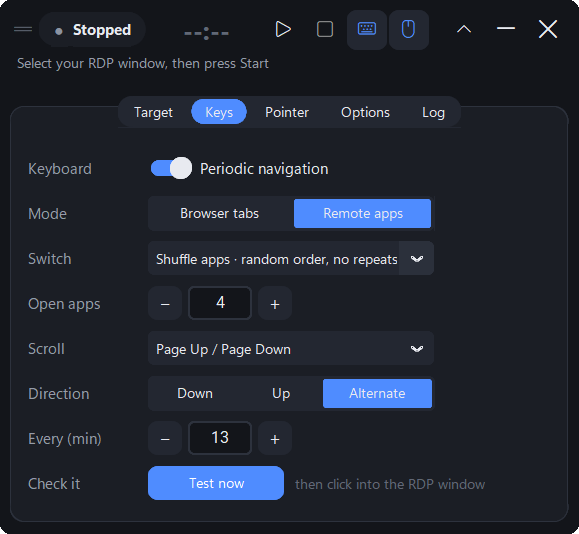
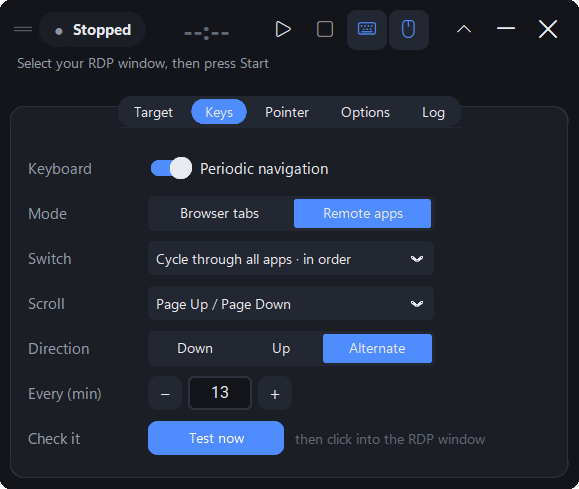
Cycle through all remote apps by default (1.0.4)
Live test on the user's full-screen session with screenshots: one
Alt+Shift+Tab per switch showed a different app each time (Antigravity ->
VS Code -> VS Code -> File Explorer). In the Alt+Tab list it selects the app
used longest ago, so repeated switches visit every open app in turn without
needing an app count.

- New default Remote apps switch "Cycle through all apps" (Alt+Shift+Tab when
  the RDP client forwards Windows keys, Alt+Page Down otherwise).
- Options: Cycle through all apps, Shuffle apps, Back and forth, Off.
- Settings schema 2: the old default (Shuffle apps) and old "Previous app"
  migrate to Cycle through all apps.
- Docs, screenshots and release notes for 1.0.4 (includes unpublished 1.0.3).

diff --git a/src/keyboard_navigation.py b/src/keyboard_navigation.py
@@ -53,6 +53,7 @@ REMOTE_APP = "remote_app"
 MODES = {BROWSER: "Browser tabs", REMOTE_APP: "Remote apps"}
 
 SHUFFLE_APPS = "shuffle_apps"
+CYCLE_APPS = "cycle_apps"
 
 SWITCH_SHORTCUTS: dict[str, Shortcut] = {
     s.id: s
@@ -66,19 +67,22 @@ SWITCH_SHORTCUTS: dict[str, Shortcut] = {
         # Remote-app switching: the keys below are the windowed-mode defaults.  The engine
         # picks Alt+Tab / Alt+Shift+Tab instead when the RDP client forwards Windows key
         # combinations to the remote session (see rdp_settings.py).
+        # Cycle: one Alt+Shift+Tab brings forward the app used longest ago, so repeating it visits
+        # every open app in turn (verified live: 4 switches showed 4 different apps).
+        Shortcut(CYCLE_APPS, "Cycle through all apps · in order", ("alt", "pagedown")),
         Shortcut(SHUFFLE_APPS, "Shuffle apps · random order, no repeats", ("alt", "pageup")),
-        Shortcut("alt_pageup", "Next app", ("alt", "pageup")),
-        Shortcut("alt_pagedown", "Previous app", ("alt", "pagedown")),
+        Shortcut("alt_pageup", "Back and forth · last two apps", ("alt", "pageup")),
+        Shortcut("alt_pagedown", "Cycle through all apps · in order (legacy)", ("alt", "pagedown")),
         Shortcut("off", "Off · no switching", ()),
     )
 }
 
-REMOTE_APP_SWITCHES = frozenset({SHUFFLE_APPS, "alt_pageup", "alt_pagedown"})
+REMOTE_APP_SWITCHES = frozenset({CYCLE_APPS, SHUFFLE_APPS, "alt_pageup", "alt_pagedown"})
 
 
 def remote_app_keys(switch_id: str, windows_keys_go_remote: bool) -> tuple[str, ...]:
     """Keys that switch apps INSIDE the remote session for the RDP client's current keyboard mode."""
-    previous = switch_id == "alt_pagedown"
+    previous = switch_id in (CYCLE_APPS, "alt_pagedown")
     if windows_keys_go_remote:  # client forwards Alt+Tab itself (e.g. full screen, default settings)
         return ("alt", "shift", "tab") if previous else ("alt", "tab")
     return ("alt", "pagedown") if previous else ("alt", "pageup")  # client's own Alt+Tab stand-in
@@ -86,9 +90,9 @@ def remote_app_keys(switch_id: str, windows_keys_go_remote: bool) -> tuple[str, 
 
 MODE_SWITCH_OPTIONS = {
     BROWSER: ("ctrl_tab", "ctrl_shift_tab", "ctrl_pagedown", "ctrl_pageup", "off"),
-    REMOTE_APP: (SHUFFLE_APPS, "alt_pageup", "alt_pagedown", "off"),
+    REMOTE_APP: (CYCLE_APPS, SHUFFLE_APPS, "alt_pageup", "off"),
 }
-MODE_DEFAULT_SWITCH = {BROWSER: "ctrl_tab", REMOTE_APP: SHUFFLE_APPS}
+MODE_DEFAULT_SWITCH = {BROWSER: "ctrl_tab", REMOTE_APP: CYCLE_APPS}
 
 SCROLL_KEYS = {  # id -> (label, key for "down", key for "up")
     "page": ("Page Up / Page Down", "pagedown", "pageup"),

diff --git a/tests/test_settings.py b/tests/test_settings.py
@@ -3,14 +3,14 @@ import os
 
 import pytest
 
-from keyboard_navigation import BROWSER, REMOTE_APP, SHUFFLE_APPS
+from keyboard_navigation import BROWSER, CYCLE_APPS, REMOTE_APP, SHUFFLE_APPS
 from settings import DEFAULTS, SettingsStore, validate
 
 
 def test_defaults_match_specification():
     assert DEFAULTS.interval_minutes == 13.0
     assert DEFAULTS.mode == REMOTE_APP
-    assert DEFAULTS.switch_shortcut == SHUFFLE_APPS
+    assert DEFAULTS.switch_shortcut == CYCLE_APPS
     assert DEFAULTS.keyboard_enabled is True
     assert DEFAULTS.resume_policy == "auto"
 
@@ -41,7 +41,7 @@ def test_switch_shortcut_must_belong_to_mode():
     s = validate({"mode": BROWSER, "switch_shortcut": SHUFFLE_APPS})
     assert s.switch_shortcut == "ctrl_tab"
     s = validate({"mode": REMOTE_APP, "switch_shortcut": "ctrl_tab"})
-    assert s.switch_shortcut == SHUFFLE_APPS
+    assert s.switch_shortcut == CYCLE_APPS
 
 
 def test_mode_change_resets_shortcut(tmp_path):
@@ -49,7 +49,7 @@ def test_mode_change_resets_shortcut(tmp_path):
     store.load()
     assert store.update(mode=BROWSER).switch_shortcut == "ctrl_tab"
     assert store.update(switch_shortcut="ctrl_shift_tab").switch_shortcut == "ctrl_shift_tab"
-    assert store.update(mode=REMOTE_APP).switch_shortcut == SHUFFLE_APPS
+    assert store.update(mode=REMOTE_APP).switch_shortcut == CYCLE_APPS
 
 
 def test_unknown_setting_rejected(tmp_path):
@@ -97,3 +97,11 @@ def test_minimize_target_default_and_validation():
     assert DEFAULTS.minimize_to == "taskbar"
     assert validate({"minimize_to": "tray"}).minimize_to == "tray"
     assert validate({"minimize_to": "desktop"}).minimize_to == "taskbar"
+
+
+def test_old_default_shuffle_migrates_to_cycle():
+    assert validate({"schema_version": 1, "switch_shortcut": "shuffle_apps"}).switch_shortcut == CYCLE_APPS
+    assert validate({"schema_version": 1, "switch_shortcut": "alt_pagedown"}).switch_shortcut == CYCLE_APPS
+    assert validate({"schema_version": 1, "switch_shortcut": "alt_pageup"}).switch_shortcut == "alt_pageup"
+    # once saved with the new schema, a deliberate choice of Shuffle is kept
+    assert validate({"schema_version": 2, "switch_shortcut": "shuffle_apps"}).switch_shortcut == SHUFFLE_APPS

diff --git a/src/scheduler.py b/src/scheduler.py
@@ -27,7 +27,8 @@ from enum import Enum
 
 from input_safety import SafetyGate
 from keyboard_navigation import (
-    PACING, REMOTE_APP_SWITCHES, SHUFFLE_APPS, SWITCH_SHORTCUTS, ActionResult, AppShuffler, KeyboardNavigator,
+    CYCLE_APPS, PACING, REMOTE_APP_SWITCHES, SHUFFLE_APPS, SWITCH_SHORTCUTS, ActionResult, AppShuffler,
+    KeyboardNavigator,
     chord_text, remote_app_keys, scroll_key_for,
 )
 from pointer_controller import ManualMovementMonitor, PointerController
@@ -65,7 +66,7 @@ class PointerState(str, Enum):
 class EngineConfig:
     keyboard_enabled: bool = True
     interval_s: float = 13 * 60
-    switch_shortcut: str = SHUFFLE_APPS
+    switch_shortcut: str = CYCLE_APPS
     app_count: int = 4
     scroll_key: str = "page"
     scroll_direction: str = "alternate"
@@ -620,7 +621,8 @@ class AutomationEngine:
                     if shuffler is not None:
                         shuffler.commit()
                     took = r.message.rsplit(" over ", 1)[-1] if " over " in r.message else ""
-                    order = f"; shuffled order of {cfg.app_count}" if shuffler is not None else ""
+                    order = (f"; shuffled order of {cfg.app_count}" if shuffler is not None else
+                             "; cycling through all open apps" if switch.id in (CYCLE_APPS, "alt_pagedown") else "")
                     r = ActionResult(True, "ok", f"Switched remote app with {chord_text(keys, steps)}"
                                                  f"{' over ' + took if took else ''} ({why}{order})")
                 elif r.code == "focus_changed" and "tab" in keys and "alt" in keys:

diff --git a/tests/test_keyboard_navigation.py b/tests/test_keyboard_navigation.py
@@ -32,6 +32,24 @@ def test_remote_app_keys_follow_rdp_keyboard_mode():
     assert remote_app_keys("alt_pagedown", False) == ("alt", "pagedown")
 
 
+def test_cycle_uses_one_shift_tab_per_switch():
+    from keyboard_navigation import CYCLE_APPS, MODE_DEFAULT_SWITCH, REMOTE_APP, remote_app_keys
+    assert MODE_DEFAULT_SWITCH[REMOTE_APP] == CYCLE_APPS
+    assert remote_app_keys(CYCLE_APPS, True) == ("alt", "shift", "tab")
+    assert remote_app_keys(CYCLE_APPS, False) == ("alt", "pagedown")
+
+
+def test_one_shift_tab_cycles_through_every_app():
+    """Model of the Windows Alt+Tab list: Alt+Shift+Tab once selects the least recently used app."""
+    for n in range(2, 8):
+        mru = list(range(n))
+        seen = [mru[0]]
+        for _ in range(n - 1):
+            mru.insert(0, mru.pop())  # last (least recent) app comes to the front
+            seen.append(mru[0])
+        assert sorted(seen) == list(range(n))  # n switches visit all n apps, none repeated
+
+
 def test_mode_options_reference_existing_shortcuts():
     for options in MODE_SWITCH_OPTIONS.values():
         assert all(o in SWITCH_SHORTCUTS for o in options)

diff --git a/src/settings.py b/src/settings.py
@@ -21,7 +21,7 @@ from keyboard_navigation import (
 
 log = logging.getLogger(__name__)
 
-SCHEMA_VERSION = 1
+SCHEMA_VERSION = 2  # 2: Remote apps default changed from Shuffle apps to Cycle through all apps
 
 INTERVAL_MIN, INTERVAL_MAX = 1.0, 240.0          # minutes
 POINTER_INTERVAL_MIN, POINTER_INTERVAL_MAX = 10, 900  # seconds
@@ -88,7 +88,10 @@ def _opt_int(value):
 def validate(raw: dict) -> Settings:
     d = DEFAULTS
     mode = _choice(raw.get("mode"), d.mode, MODES)
-    switch = _choice(raw.get("switch_shortcut"), MODE_DEFAULT_SWITCH[mode], MODE_SWITCH_OPTIONS[mode])
+    raw_switch = raw.get("switch_shortcut")
+    if raw.get("schema_version", 1) == 1 and raw_switch in ("shuffle_apps", "alt_pagedown"):
+        raw_switch = MODE_DEFAULT_SWITCH[REMOTE_APP]  # old default / old "Previous app" -> cycle
+    switch = _choice(raw_switch, MODE_DEFAULT_SWITCH[mode], MODE_SWITCH_OPTIONS[mode])
     return Settings(
         schema_version=SCHEMA_VERSION,
         interval_minutes=round(_num(raw.get("interval_minutes"), d.interval_minutes, INTERVAL_MIN, INTERVAL_MAX,

diff --git a/tests/test_scheduler.py b/tests/test_scheduler.py
@@ -584,3 +584,20 @@ def test_alt_tab_falls_back_after_focus_moves(env):
     eng.test_now()
     eng.step()
     assert kb.sent[-1] == (("alt", "pageup"), 1)
+
+
+def test_cycle_mode_full_screen_and_windowed(env):
+    from keyboard_navigation import CYCLE_APPS
+    assert _one_test_cycle(env, CYCLE_APPS, fullscreen=True) == [(("alt", "shift", "tab"), 1)]
+    eng = env[0]
+    assert "cycling through all open apps" in eng.snapshot().events[-2].message
+
+
+def test_cycle_mode_windowed_uses_alt_pagedown(env):
+    from keyboard_navigation import CYCLE_APPS
+    assert _one_test_cycle(env, CYCLE_APPS, fullscreen=False) == [(("alt", "pagedown"), 1)]
+
+
+def test_default_engine_switch_is_cycle():
+    from keyboard_navigation import CYCLE_APPS
+    assert EngineConfig().switch_shortcut == CYCLE_APPS

diff --git a/src/app_info.py b/src/app_info.py
@@ -6,7 +6,7 @@ import os
 import sys
 
 APP_NAME = "RDP Nexus"
-APP_VERSION = "1.0.3"
+APP_VERSION = "1.0.4"
 APP_PUBLISHER = "ADevlooper"
 APP_URL = "https://github.com/ADevlooper/RDP-Nexus"
 # Explicit AppUserModelID so the taskbar groups the window under our own icon

diff --git a/README.md b/README.md
@@ -17,8 +17,10 @@ the moment the RDP window isn't the active window, and it never touches your loc
   one-line status. Expand it for settings; minimize it to the taskbar (default) or the system tray.
 - **Start / Pause / Resume / Stop**, with a countdown to the next cycle and clear states:
   **Stopped**, **Running**, **Paused**, **RDP Unavailable** and **Manual pointer control**.
-- **Shuffle apps** (default): visits every app open in the remote session in a random order,
-  re-shuffled each round, and **never selects the same app twice in a row**.
+- **Cycle through all apps** (default): like pressing Alt+Tab to go from VS Code to the browser to
+  Visual Studio and round again. Every switch brings up the app used longest ago, so it visits **every**
+  open app in turn and never shows the same app twice in a row. No app count needed.
+- **Shuffle apps**: visits every app once per round in a random order that changes each round.
 - **Remote apps** and **Browser tabs** modes with an allow-list of shortcuts, plus a configurable
   scroll key and direction (down, up or alternate).
 - **Gentle pointer movement**: small, smooth glides that stay inside the RDP window's client area,
@@ -50,8 +52,8 @@ Requires Windows 10 or 11 (x64). Python is **not** required.
 1. Open your Remote Desktop connection (`mstsc`, or the Microsoft Remote Desktop / Windows App client).
 2. In RDP Nexus click **▾** (settings) → **Target**, then pick the RDP window from the list, or click
    **Pick by clicking it** and click inside the RDP window.
-3. On the **Keys** tab set **Open apps** to the number of apps open *inside the remote session*
-   (the number you would see in its Alt+Tab list).
+3. On the **Keys** tab keep **Switch → Cycle through all apps** (default). Only for *Shuffle apps*:
+   set **Open apps** to the number of apps open inside the remote session.
 4. Check it: on the **Keys** tab press **Test now**, click inside the RDP window and keep still.
    Within a couple of seconds the remote session should switch to another app and scroll. The result
    is shown in the status line and on the **Log** tab.
@@ -71,7 +73,7 @@ Each cycle sends **one** switch action, then (after half a second, if the target
 
 | Mode | Switch options | Notes |
 | --- | --- | --- |
-| **Remote apps** | **Shuffle apps** (default), Next app, Previous app, Off | Keys are chosen automatically before every switch (see *Which keys switch remote apps* below). |
+| **Remote apps** | **Cycle through all apps** (default), Shuffle apps, Back and forth (last two apps), Off | Keys are chosen automatically before every switch (see *Which keys switch remote apps* below). |
 | **Browser tabs** | Ctrl+Tab, Ctrl+Shift+Tab, Ctrl+Page Down, Ctrl+Page Up, Off | Acts on the browser that is active in the remote session. |
 
 Scroll: Page Down/Page Up or Arrow Down/Up (or Off), with direction **Down**, **Up** or **Alternate**
@@ -89,6 +91,12 @@ RDP Nexus reads the setting from the `.rdp` file the client was started with, or
 `Documents\Default.rdp`. It checks whether the window is full screen (no title bar, covers its
 monitor) right before every switch, and the **Target** tab shows the choice and why. If focus ever
 leaves the RDP window right after an Alt+Tab, it suspends and uses Alt+Page Up for that window from then on.
+
+**Cycle through all apps** sends one Alt+Shift+Tab (Alt+Page Down when windowed) per switch. In the
+Alt+Tab list that selects the app used longest ago, so repeated switches walk through every open app
+and come back round, however many apps are open. Verified live on a full-screen session: four
+screenshots showed four different apps. **Back and forth** sends a single Alt+Tab, which alternates
+between the two most recent apps.
 
 **Shuffle apps** models the remote Alt+Tab list, which Windows keeps in most-recently-used order.
 To bring up the app *k* places down that list it holds Alt, taps Tab (or Page Up) *k* times (*k* ≥ 1),
@@ -149,7 +157,7 @@ Uninstalling removes the program, shortcuts, the startup entry and the logs. You
 | --- | --- |
 | Always **RDP Unavailable – not the active window** | Click inside the RDP window after pressing Start. RDP Nexus itself is a local window, so clicking it takes focus away from RDP. |
 | RDP window isn't in the list | Make sure it's connected (not just the "Remote Desktop Connection" dialog) and press ⟳. Only `mstsc.exe`/`msrdc.exe` session windows are supported. |
-| App switching does nothing | Update to 1.0.3 or later: earlier versions only sent Alt+Page Up, which a full-screen session ignores. Use **Keys → Test now** and read the **Log** tab and **Target → Keys**. If the log says *Switched remote app* but nothing changed: check that more than one app is open in the session and that **Open apps** matches, then try **Options → Key timing → Slow**. |
+| App switching does nothing | Update to 1.0.3 or later: earlier versions only sent Alt+Page Up, which a full-screen session ignores. Use **Keys → Test now** and read the **Log** tab and **Target → Keys**. If the log says *Switched remote app* but nothing changed: check that more than one app is open in the session (and, for Shuffle apps, that **Open apps** matches), then try **Options → Key timing → Slow**. Use **Cycle through all apps** if you want every app visited without counting them. |
 | RDP Nexus isn't on the taskbar | Check **Options → Minimize to**. With *System tray*, the — button and launch-at-sign-in hide the panel in the tray. Windows 11 puts new tray icons in the hidden overflow, so click **^** next to the clock (drag the icon onto the taskbar to keep it visible). With *Taskbar* (default since 1.0.2) it always keeps a taskbar button. |
 | "Blocked by Windows" | The RDP client runs as administrator and RDP Nexus doesn't. Windows blocks input from lower-integrity apps (UIPI), so run both at the same level. |
 | Pointer stays on *Arming* | Rest the pointer over the remote desktop (not over the RDP title bar or RDP Nexus) for 3 seconds. |

diff --git a/docs/releases/v1.0.4.md b/docs/releases/v1.0.4.md
@@ -1,0 +1,31 @@
+## RDP Nexus 1.0.4
+
+Includes the 1.0.3 fix, which was not published on its own.
+
+### Fixed
+- **App switching did nothing in a full-screen Remote Desktop session** (1.0.3). Tested live: with
+  Remote Desktop Connection's default keyboard setting, a full-screen session forwards **Alt+Tab** to
+  the remote PC and passes **Alt+Page Up** through unchanged, so the remote PC ignores it. RDP Nexus
+  now picks the keys the client actually forwards before every switch:
+  - **Alt+Tab** / Alt+Shift+Tab when the session is full screen with the default setting, or the
+    setting is *On the remote computer*;
+  - **Alt+Page Up** / Alt+Page Down when it is windowed, or the setting is *On this computer*.
+  The setting is read from the `.rdp` file (or `Documents\Default.rdp`); **Target → Keys** shows the
+  choice. If local focus changes right after an Alt+Tab, automation suspends and that window uses
+  Alt+Page Up from then on.
+
+### New
+- **Cycle through all apps** is the new default switch: VS Code → browser → Visual Studio → … and round
+  again. One Alt+Shift+Tab per switch brings up the app used longest ago, so every open app is visited
+  in turn with no app count to keep up to date. Verified live: four screenshots, four different apps.
+- Switch options in Remote apps mode: *Cycle through all apps*, *Shuffle apps*, *Back and forth* (plain
+  Alt+Tab between the last two apps), *Off*. Settings still on the old default (Shuffle apps) move to
+  Cycle through all apps.
+
+### Downloads
+
+| File | Description |
+| --- | --- |
+| `RDPNexus-1.0.4-setup.exe` | Per-user installer (upgrades 1.0.x in place; settings are kept) |
+| `RDPNexus-1.0.4-portable.exe` | Single-file portable executable |
+| `SHA256SUMS.txt` | SHA-256 checksums |
